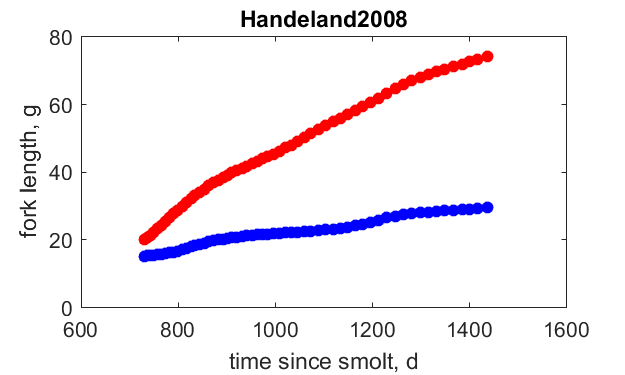
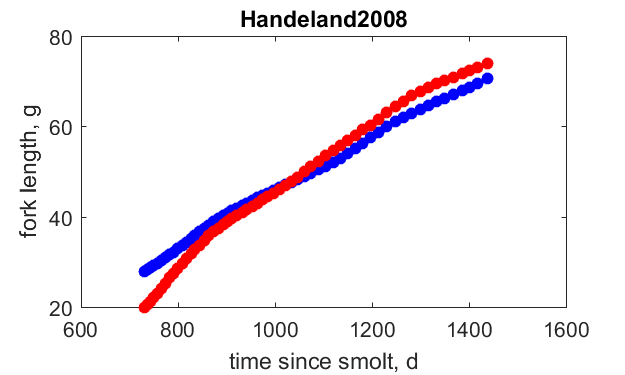
updated temperature scenario

diff --git a/Temperature/report_Salmo_salar.html b/Temperature/report_Salmo_salar.html
@@ -1,0 +1,207 @@
+<!DOCTYPE html>
+<HTML>
+<HEAD>
+  <TITLE>Salmo_salar</TITLE>
+</HEAD>
+
+<BODY>
+
+  <h1 > 
+    <A HREF = "https://en.wikipedia.org/wiki/Oncorhynchus_mykiss" target = "_blank">Salmo salar</A> (Atlantic salmon): &nbsp;
+  </h1>
+
+      <H1 >Implied properties for this entry </H1>
+      <H2>Model: <a class="link" target = "_blank" href="http://www.debtheory.org/wiki/index.php?title=Typified_models" >&nbsp;abj &nbsp;</a></H2>
+
+      <TABLE>
+        <TR BGCOLOR = "#FFE7C6"><TH colspan="4">Implied properties at 10 deg. C</TH></TR>
+        <TR BGCOLOR = "#FFE7C6"><TH>symbol</TH><TH> value</TH><TH> units</TH><TH> description</TH></TR>
+        <TR BGCOLOR = "#ffffff"> <TD>f</TD> <TD>1</TD> <TD>-</TD><TD>scaled functional response</TD></TR>
+        <TR BGCOLOR = "#ffffff"> <TD>T</TD> <TD>10</TD> <TD>C</TD><TD>body temperature</TD></TR>
+        <TR BGCOLOR = "#ffffff"> <TD>c_T</TD> <TD>0.381444</TD> <TD>-</TD><TD>Temperature Correction factor</TD></TR>
+        <TR BGCOLOR = "#ffffff"> <TD>p_Am</TD> <TD>112.433</TD> <TD>J/d.cm^2</TD><TD>{p_Am}, spec assimilation flux</TD></TR>
+        <TR BGCOLOR = "#ffffff"> <TD>w_X</TD> <TD>23.9</TD> <TD>g/mol</TD><TD>molecular weight for water-free food</TD></TR>
+        <TR BGCOLOR = "#ffffff"> <TD>w_V</TD> <TD>23.9</TD> <TD>g/mol</TD><TD>molecular weight for water-free structure</TD></TR>
+        <TR BGCOLOR = "#ffffff"> <TD>w_E</TD> <TD>23.9</TD> <TD>g/mol</TD><TD>molecular weight for water-free reserve</TD></TR>
+        <TR BGCOLOR = "#ffffff"> <TD>w_P</TD> <TD>23.9</TD> <TD>g/mol</TD><TD>molecular weight for water-free product (feaces)</TD></TR>
+        <TR BGCOLOR = "#ffffff"> <TD>M_V</TD> <TD>0.0083682</TD> <TD>mol/cm^3</TD><TD>[M_V], volume-specific mass of structure</TD></TR>
+        <TR BGCOLOR = "#ffffff"> <TD>y_V_E</TD> <TD>0.915922</TD> <TD>mol/mol</TD><TD>yield of structure on reserve</TD></TR>
+        <TR BGCOLOR = "#ffffff"> <TD>y_E_V</TD> <TD>1.0918</TD> <TD>mol/mol</TD><TD>yield of reserve on structure</TD></TR>
+        <TR BGCOLOR = "#ffffff"> <TD>k_M</TD> <TD>0.00156198</TD> <TD>1/d</TD><TD>somatic maintenance rate coefficient</TD></TR>
+        <TR BGCOLOR = "#ffffff"> <TD>k</TD> <TD>1.28042</TD> <TD>-</TD><TD>maintenance ratio</TD></TR>
+        <TR BGCOLOR = "#ffffff"> <TD>E_m</TD> <TD>1097.2</TD> <TD>J/cm^3</TD><TD>[E_m], reserve capacity</TD></TR>
+        <TR BGCOLOR = "#ffffff"> <TD>m_Em</TD> <TD>0.238392</TD> <TD>mol/mol</TD><TD>reserve capacity</TD></TR>
+        <TR BGCOLOR = "#ffffff"> <TD>g</TD> <TD>5.26713</TD> <TD>-</TD><TD>energy investment ratio</TD></TR>
+        <TR BGCOLOR = "#ffffff"> <TD>L_m</TD> <TD>12.4554</TD> <TD>cm</TD><TD>maximum structural length</TD></TR>
+        <TR BGCOLOR = "#ffffff"> <TD>L_T</TD> <TD>0</TD> <TD>cm</TD><TD>heating length (also applies to osmotic work)</TD></TR>
+        <TR BGCOLOR = "#ffffff"> <TD>l_T</TD> <TD>0</TD> <TD>-</TD><TD>scaled heating length</TD></TR>
+        <TR BGCOLOR = "#ffffff"> <TD>w</TD> <TD>0.238392</TD> <TD>-</TD><TD>\omega, contribution of ash free dry mass of reserve to total ash free dry biomass</TD></TR>
+        <TR BGCOLOR = "#ffffff"> <TD>J_E_Am</TD> <TD>0.000204424</TD> <TD>mol/d.cm^2</TD><TD>{J_EAm}, max surface-spec assimilation flux</TD></TR>
+        <TR BGCOLOR = "#ffffff"> <TD>y_E_X</TD> <TD>0.763636</TD> <TD>mol/mol</TD><TD>yield of reserve on food</TD></TR>
+        <TR BGCOLOR = "#ffffff"> <TD>y_X_E</TD> <TD>1.30952</TD> <TD>mol/mol</TD><TD>yield of food on reserve</TD></TR>
+        <TR BGCOLOR = "#ffffff"> <TD>p_Xm</TD> <TD>140.541</TD> <TD>J/d.cm^2</TD><TD>{p_Xm}, max spec feeding power</TD></TR>
+        <TR BGCOLOR = "#ffffff"> <TD>J_X_Am</TD> <TD>0.000267698</TD> <TD>mol/d.cm^2</TD><TD>{J_XAm}, max surface-spec feeding flux</TD></TR>
+        <TR BGCOLOR = "#ffffff"> <TD>y_P_X</TD> <TD>0.109375</TD> <TD>mol/mol</TD><TD>yield of faeces on food</TD></TR>
+        <TR BGCOLOR = "#ffffff"> <TD>y_X_P</TD> <TD>9.14286</TD> <TD>mol/mol</TD><TD>yield of food on faeces</TD></TR>
+        <TR BGCOLOR = "#ffffff"> <TD>y_P_E</TD> <TD>0.143229</TD> <TD>mol/mol</TD><TD>yield of faeces on reserve</TD></TR>
+        <TR BGCOLOR = "#ffffff"> <TD>eta_XA</TD> <TD>2.38095e-06</TD> <TD>mol/J</TD><TD>mass-power couplers for food on assimilation</TD></TR>
+        <TR BGCOLOR = "#ffffff"> <TD>eta_PA</TD> <TD>2.60417e-07</TD> <TD>mol/J</TD><TD>mass-power couplers for product on assimlation</TD></TR>
+        <TR BGCOLOR = "#ffffff"> <TD>eta_VG</TD> <TD>1.66531e-06</TD> <TD>mol/J</TD><TD>mass-power couplers for structure on growth</TD></TR>
+        <TR BGCOLOR = "#ffffff"> <TD>J_E_M</TD> <TD>1.42708e-05</TD> <TD>mol/d.cm^3</TD><TD>[J_EM], vol-spec somatic  maint costs</TD></TR>
+        <TR BGCOLOR = "#ffffff"> <TD>J_E_T</TD> <TD>0</TD> <TD>mol/d.cm^2</TD><TD>{J_ET}, surface-spec somatic  maint costs</TD></TR>
+        <TR BGCOLOR = "#ffffff"> <TD>j_E_M</TD> <TD>0.00170536</TD> <TD>mol/d.mol</TD><TD>mass-spec somatic  maint costs</TD></TR>
+        <TR BGCOLOR = "#ffffff"> <TD>j_E_J</TD> <TD>0.00218359</TD> <TD>mol/d.mol</TD><TD>mass-spec maturity maint costs</TD></TR>
+        <TR BGCOLOR = "#ffffff"> <TD>kap_G</TD> <TD>0.832657</TD> <TD>-</TD><TD>\kappa_G, growth efficiency</TD></TR>
+        <TR BGCOLOR = "#ffffff"> <TD>E_V</TD> <TD>4184.1</TD> <TD>J/cm^3</TD><TD>[E_V], volume-specific energy of structure</TD></TR>
+        <TR BGCOLOR = "#ffffff"> <TD>K</TD> <TD>4.11842e-05</TD> <TD>mol X/l</TD><TD>half-saturation coefficient</TD></TR>
+        <TR BGCOLOR = "#ffffff"> <TD>M_Hh</TD> <TD>0.000110734</TD> <TD>mol</TD><TD>maturity level at hatch</TD></TR>
+        <TR BGCOLOR = "#ffffff"> <TD>U_Hh</TD> <TD>0.541687</TD> <TD>cm^2.d</TD><TD>scaled maturity level at hatch</TD></TR>
+        <TR BGCOLOR = "#ffffff"> <TD>V_Hh</TD> <TD>4.15124</TD> <TD>cm^2.d</TD><TD>scaled maturity level at hatch</TD></TR>
+        <TR BGCOLOR = "#ffffff"> <TD>u_Hh</TD> <TD>5.45393e-06</TD> <TD>-</TD><TD>scaled maturity level at hatch</TD></TR>
+        <TR BGCOLOR = "#ffffff"> <TD>v_Hh</TD> <TD>4.17965e-05</TD> <TD>-</TD><TD>scaled maturity level at hatch</TD></TR>
+        <TR BGCOLOR = "#ffffff"> <TD>M_Hb</TD> <TD>0.000110742</TD> <TD>mol</TD><TD>maturity level at birth</TD></TR>
+        <TR BGCOLOR = "#ffffff"> <TD>U_Hb</TD> <TD>0.541726</TD> <TD>cm^2.d</TD><TD>scaled maturity level at birth</TD></TR>
+        <TR BGCOLOR = "#ffffff"> <TD>V_Hb</TD> <TD>4.15155</TD> <TD>cm^2.d</TD><TD>scaled maturity level at birth</TD></TR>
+        <TR BGCOLOR = "#ffffff"> <TD>u_Hb</TD> <TD>5.45433e-06</TD> <TD>-</TD><TD>scaled maturity level at birth</TD></TR>
+        <TR BGCOLOR = "#ffffff"> <TD>v_Hb</TD> <TD>4.17995e-05</TD> <TD>-</TD><TD>scaled maturity level at birth</TD></TR>
+        <TR BGCOLOR = "#ffffff"> <TD>M_Hj</TD> <TD>0.00232906</TD> <TD>mol</TD><TD>maturity level at metamorphosis</TD></TR>
+        <TR BGCOLOR = "#ffffff"> <TD>U_Hj</TD> <TD>11.3933</TD> <TD>cm^2.d</TD><TD>scaled maturity level at metamorphosis</TD></TR>
+        <TR BGCOLOR = "#ffffff"> <TD>V_Hj</TD> <TD>87.3132</TD> <TD>cm^2.d</TD><TD>scaled maturity level at metamorphosis</TD></TR>
+        <TR BGCOLOR = "#ffffff"> <TD>u_Hj</TD> <TD>0.000114713</TD> <TD>-</TD><TD>scaled maturity level at metamorphosis</TD></TR>
+        <TR BGCOLOR = "#ffffff"> <TD>v_Hj</TD> <TD>0.000879106</TD> <TD>-</TD><TD>scaled maturity level at metamorphosis</TD></TR>
+        <TR BGCOLOR = "#ffffff"> <TD>M_Hp</TD> <TD>0.139167</TD> <TD>mol</TD><TD>maturity level at puberty</TD></TR>
+        <TR BGCOLOR = "#ffffff"> <TD>U_Hp</TD> <TD>680.777</TD> <TD>cm^2.d</TD><TD>scaled maturity level at puberty</TD></TR>
+        <TR BGCOLOR = "#ffffff"> <TD>V_Hp</TD> <TD>5217.17</TD> <TD>cm^2.d</TD><TD>scaled maturity level at puberty</TD></TR>
+        <TR BGCOLOR = "#ffffff"> <TD>u_Hp</TD> <TD>0.00685434</TD> <TD>-</TD><TD>scaled maturity level at puberty</TD></TR>
+        <TR BGCOLOR = "#ffffff"> <TD>v_Hp</TD> <TD>0.0525286</TD> <TD>-</TD><TD>scaled maturity level at puberty</TD></TR>
+        <TR BGCOLOR = "#ffffff"> <TD>t_E</TD> <TD>318.654</TD> <TD>d</TD><TD>maximum reserve residence time</TD></TR>
+        <TR BGCOLOR = "#ffffff"> <TD>t_starve</TD> <TD>366.475</TD> <TD>d</TD><TD>maximum survival time when starved</TD></TR>
+        <TR BGCOLOR = "#ffffff"> <TD>s_M</TD> <TD>2.76732</TD> <TD>-</TD><TD>acceleration factor at f=1</TD></TR>
+        <TR BGCOLOR = "#ffffff"> <TD>r_j</TD> <TD>0.0139116</TD> <TD>1/d</TD><TD>exponential growth rate</TD></TR>
+        <TR BGCOLOR = "#ffffff"> <TD>r_B</TD> <TD>0.000166913</TD> <TD>1/d</TD><TD>von Bertalanffy growth rate</TD></TR>
+        <TR BGCOLOR = "#ffffff"> <TD>W_dWm</TD> <TD>15025.7</TD> <TD>g</TD><TD>wet weight at maximum growth</TD></TR>
+        <TR BGCOLOR = "#ffffff"> <TD>dWm</TD> <TD>1.11466</TD> <TD>g/d</TD><TD>maximum growth in wet weight</TD></TR>
+        <TR BGCOLOR = "#ffffff"> <TD>U_E0</TD> <TD>5.00677</TD> <TD>cm^2.d</TD><TD>scaled initial reserve</TD></TR>
+        <TR BGCOLOR = "#ffffff"> <TD>E_0</TD> <TD>562.926</TD> <TD>J</TD><TD>initial reserve</TD></TR>
+        <TR BGCOLOR = "#ffffff"> <TD>M_E0</TD> <TD>0.0010235</TD> <TD>mol</TD><TD>initial reserve</TD></TR>
+        <TR BGCOLOR = "#ffffff"> <TD>Wd_0</TD> <TD>0.0244617</TD> <TD>g</TD><TD>initial dry weight</TD></TR>
+        <TR BGCOLOR = "#ffffff"> <TD>Ww_0</TD> <TD>0.122308</TD> <TD>g</TD><TD>initial wet weight</TD></TR>
+        <TR BGCOLOR = "#ffffff"> <TD>l_h</TD> <TD>0.0347355</TD> <TD>-</TD><TD>scaled structural length at hatch</TD></TR>
+        <TR BGCOLOR = "#ffffff"> <TD>L_h</TD> <TD>0.432644</TD> <TD>cm</TD><TD>structural length at hatch</TD></TR>
+        <TR BGCOLOR = "#ffffff"> <TD>M_Vh</TD> <TD>0.00067768</TD> <TD>mol</TD><TD>structural mass at hatch</TD></TR>
+        <TR BGCOLOR = "#ffffff"> <TD>M_Eh</TD> <TD>0.000161662</TD> <TD>mol</TD><TD>reserve mass at hatch</TD></TR>
+        <TR BGCOLOR = "#ffffff"> <TD>del_Uh</TD> <TD>0.15795</TD> <TD>-</TD><TD>fraction of reserve left at hatch</TD></TR>
+        <TR BGCOLOR = "#ffffff"> <TD>Ww_h</TD> <TD>0.100301</TD> <TD>g</TD><TD>wet weight at hatch</TD></TR>
+        <TR BGCOLOR = "#ffffff"> <TD>Wd_h</TD> <TD>0.0200603</TD> <TD>g</TD><TD>dry weight at hatch</TD></TR>
+        <TR BGCOLOR = "#ffffff"> <TD>E_Wh</TD> <TD>427.755</TD> <TD>J</TD><TD>energy content at hatch</TD></TR>
+        <TR BGCOLOR = "#ffffff"> <TD>a_h</TD> <TD>50.2712</TD> <TD>d</TD><TD>age at hatch</TD></TR>
+        <TR BGCOLOR = "#ffffff"> <TD>l_b</TD> <TD>0.0347438</TD> <TD>-</TD><TD>scaled structural length at birth</TD></TR>
+        <TR BGCOLOR = "#ffffff"> <TD>L_b</TD> <TD>0.432747</TD> <TD>cm</TD><TD>structural length at birth</TD></TR>
+        <TR BGCOLOR = "#ffffff"> <TD>M_Vb</TD> <TD>0.000678164</TD> <TD>mol</TD><TD>structural mass at birth</TD></TR>
+        <TR BGCOLOR = "#ffffff"> <TD>del_Ub</TD> <TD>0.157957</TD> <TD>-</TD><TD>fraction of reserve left at birth</TD></TR>
+        <TR BGCOLOR = "#ffffff"> <TD>Ww_b</TD> <TD>0.10036</TD> <TD>g</TD><TD>wet weight at birth</TD></TR>
+        <TR BGCOLOR = "#ffffff"> <TD>Wd_b</TD> <TD>0.020072</TD> <TD>g</TD><TD>dry weight at birth</TD></TR>
+        <TR BGCOLOR = "#ffffff"> <TD>E_Wb</TD> <TD>428</TD> <TD>J</TD><TD>energy content at birth</TD></TR>
+        <TR BGCOLOR = "#ffffff"> <TD>a_b</TD> <TD>50.3513</TD> <TD>d</TD><TD>age at birth</TD></TR>
+        <TR BGCOLOR = "#ffffff"> <TD>g_Hb</TD> <TD>5.24946</TD> <TD>-</TD><TD>energy outvestment ratio at birth</TD></TR>
+        <TR BGCOLOR = "#ffffff"> <TD>l_j</TD> <TD>0.0961472</TD> <TD>-</TD><TD>scaled structural length at metamorphosis</TD></TR>
+        <TR BGCOLOR = "#ffffff"> <TD>L_j</TD> <TD>1.19755</TD> <TD>cm</TD><TD>structural length at metamorphosis</TD></TR>
+        <TR BGCOLOR = "#ffffff"> <TD>M_Vj</TD> <TD>0.0143719</TD> <TD>mol</TD><TD>structural mass at metamorphosis</TD></TR>
+        <TR BGCOLOR = "#ffffff"> <TD>M_Ej</TD> <TD>0.0143719</TD> <TD>mol</TD><TD>reserve mass at metamorphosis</TD></TR>
+        <TR BGCOLOR = "#ffffff"> <TD>Ww_j</TD> <TD>2.12686</TD> <TD>g</TD><TD>wet weight at metamorphosis</TD></TR>
+        <TR BGCOLOR = "#ffffff"> <TD>Wd_j</TD> <TD>0.425373</TD> <TD>g</TD><TD>dry weight at metamorphosis</TD></TR>
+        <TR BGCOLOR = "#ffffff"> <TD>E_Wj</TD> <TD>9070.32</TD> <TD>J</TD><TD>energy content at metamorphosis</TD></TR>
+        <TR BGCOLOR = "#ffffff"> <TD>a_j</TD> <TD>269.854</TD> <TD>d</TD><TD>age at metamorphosis</TD></TR>
+        <TR BGCOLOR = "#ffffff"> <TD>l_p</TD> <TD>0.378783</TD> <TD>-</TD><TD>scaled structural length at puberty</TD></TR>
+        <TR BGCOLOR = "#ffffff"> <TD>L_p</TD> <TD>4.71789</TD> <TD>cm</TD><TD>structural length at puberty</TD></TR>
+        <TR BGCOLOR = "#ffffff"> <TD>M_Vp</TD> <TD>0.878768</TD> <TD>mol</TD><TD>structural mass at puberty</TD></TR>
+        <TR BGCOLOR = "#ffffff"> <TD>M_Ep</TD> <TD>0.209491</TD> <TD>mol</TD><TD>reserve mass at puberty</TD></TR>
+        <TR BGCOLOR = "#ffffff"> <TD>Ww_p</TD> <TD>130.047</TD> <TD>g</TD><TD>wet weight at puberty</TD></TR>
+        <TR BGCOLOR = "#ffffff"> <TD>Wd_p</TD> <TD>26.0094</TD> <TD>g</TD><TD>dry weight at puberty</TD></TR>
+        <TR BGCOLOR = "#ffffff"> <TD>E_Wp</TD> <TD>554604</TD> <TD>J</TD><TD>energy content at puberty</TD></TR>
+        <TR BGCOLOR = "#ffffff"> <TD>a_p</TD> <TD>939.882</TD> <TD>d</TD><TD>age at puberty</TD></TR>
+        <TR BGCOLOR = "#ffffff"> <TD>g_Hp</TD> <TD>5.09096</TD> <TD>-</TD><TD>energy outvestment ratio at puberty</TD></TR>
+        <TR BGCOLOR = "#ffffff"> <TD>s_Hbp</TD> <TD>1.03113</TD> <TD>-</TD><TD>precociality coefficient</TD></TR>
+        <TR BGCOLOR = "#ffffff"> <TD>s_H</TD> <TD>3.09922</TD> <TD>-</TD><TD>log 10 altriciality index</TD></TR>
+        <TR BGCOLOR = "#ffffff"> <TD>s_s</TD> <TD>0.000313107</TD> <TD>-</TD><TD>supply stress</TD></TR>
+        <TR BGCOLOR = "#ffffff"> <TD>l_i</TD> <TD>2.76732</TD> <TD>-</TD><TD>ultimate scaled structural length</TD></TR>
+        <TR BGCOLOR = "#ffffff"> <TD>L_i</TD> <TD>34.4681</TD> <TD>cm</TD><TD>ultimate structural length</TD></TR>
+        <TR BGCOLOR = "#ffffff"> <TD>M_Vi</TD> <TD>342.676</TD> <TD>mol</TD><TD>ultimate structural mass</TD></TR>
+        <TR BGCOLOR = "#ffffff"> <TD>M_Ei</TD> <TD>81.6911</TD> <TD>mol</TD><TD>ultimate reserve mass</TD></TR>
+        <TR BGCOLOR = "#ffffff"> <TD>Ww_i</TD> <TD>50711.8</TD> <TD>g</TD><TD>ultimate wet weight</TD></TR>
+        <TR BGCOLOR = "#ffffff"> <TD>Wd_i</TD> <TD>10142.4</TD> <TD>g</TD><TD>ultimate dry weight</TD></TR>
+        <TR BGCOLOR = "#ffffff"> <TD>E_Wi</TD> <TD>2.16268e+08</TD> <TD>J</TD><TD>ultimate energy content</TD></TR>
+        <TR BGCOLOR = "#ffffff"> <TD>xi_WE</TD> <TD>21.3232</TD> <TD>kJ/ g</TD><TD>whole-body energy density of dry biomass (no reprod buffer)</TD></TR>
+        <TR BGCOLOR = "#ffffff"> <TD>del_Wb</TD> <TD>1.97902e-06</TD> <TD>-</TD><TD>birth weight as fraction of maximum weight</TD></TR>
+        <TR BGCOLOR = "#ffffff"> <TD>del_Wp</TD> <TD>0.00256443</TD> <TD>-</TD><TD>puberty weight as fraction of maximum weight</TD></TR>
+        <TR BGCOLOR = "#ffffff"> <TD>del_V</TD> <TD>0.807499</TD> <TD>-</TD><TD>fraction of max weight that is structure</TD></TR>
+        <TR BGCOLOR = "#ffffff"> <TD>h_W</TD> <TD>8.79511e-12</TD> <TD>1/d</TD><TD>Weibull ageing rate</TD></TR>
+        <TR BGCOLOR = "#ffffff"> <TD>h_G</TD> <TD>0.665058</TD> <TD>1/d</TD><TD>Gompertz aging rate</TD></TR>
+        <TR BGCOLOR = "#ffffff"> <TD>a_m</TD> <TD>2027.18</TD> <TD>d</TD><TD>life span</TD></TR>
+        <TR BGCOLOR = "#ffffff"> <TD>S_b</TD> <TD>1</TD> <TD>-</TD><TD>survival probability at birth</TD></TR>
+        <TR BGCOLOR = "#ffffff"> <TD>S_p</TD> <TD>1</TD> <TD>-</TD><TD>survival probability at puberty</TD></TR>
+        <TR BGCOLOR = "#ffffff"> <TD>a_99</TD> <TD>27648.2</TD> <TD>d</TD><TD>age at length 0.99 * L_i</TD></TR>
+        <TR BGCOLOR = "#ffffff"> <TD>R_i</TD> <TD>30.9514</TD> <TD>1/d</TD><TD>ultimate reproduction rate</TD></TR>
+        <TR BGCOLOR = "#ffffff"> <TD>N_i</TD> <TD>1365.3</TD> <TD>#</TD><TD>life time reproductive output</TD></TR>
+        <TR BGCOLOR = "#ffffff"> <TD>M_E0_min_G</TD> <TD>0.000888733</TD> <TD>mol</TD><TD>egg mass whereby growth ceases at birth</TD></TR>
+        <TR BGCOLOR = "#ffffff"> <TD>M_E0_min_R</TD> <TD>0.000887722</TD> <TD>mol</TD><TD>egg mass whereby maturation ceases at birth</TD></TR>
+        <TR BGCOLOR = "#ffffff"> <TD>eb_min_G</TD> <TD>0.0348094</TD> <TD>-</TD><TD>scaled reserve density whereby growth ceases at birth</TD></TR>
+        <TR BGCOLOR = "#ffffff"> <TD>eb_min_R</TD> <TD>0.0442888</TD> <TD>-</TD><TD>scaled reserve density whereby maturation ceases at birth</TD></TR>
+        <TR BGCOLOR = "#ffffff"> <TD>ep_min</TD> <TD>0.144432</TD> <TD>-</TD><TD>scaled reserve density whereby maturation and growth cease at puberty</TD></TR>
+        <TR BGCOLOR = "#ffffff"> <TD>sM_min</TD> <TD>2.81574</TD> <TD>-</TD><TD>acceleration factor whereby maturation ceases at puberty</TD></TR>
+        <TR BGCOLOR = "#ffffff"> <TD>p_Xb</TD> <TD>10.0393</TD> <TD>J/d</TD><TD>food intake at birth</TD></TR>
+        <TR BGCOLOR = "#ffffff"> <TD>J_Xb</TD> <TD>1.91224e-05</TD> <TD>mol/d</TD><TD>food intake at birth</TD></TR>
+        <TR BGCOLOR = "#ffffff"> <TD>F_mb</TD> <TD>1.21726</TD> <TD>l/d</TD><TD>max searching rate at birth</TD></TR>
+        <TR BGCOLOR = "#ffffff"> <TD>p_Xp</TD> <TD>1193.24</TD> <TD>J/d</TD><TD>food intake at puberty</TD></TR>
+        <TR BGCOLOR = "#ffffff"> <TD>J_Xp</TD> <TD>0.00227284</TD> <TD>mol/d</TD><TD>food intake at puberty</TD></TR>
+        <TR BGCOLOR = "#ffffff"> <TD>F_mp</TD> <TD>144.68</TD> <TD>l/d</TD><TD>max searching rate at puberty</TD></TR>
+        <TR BGCOLOR = "#ffffff"> <TD>p_Xi</TD> <TD>63689.6</TD> <TD>J/d</TD><TD>ultimate food intake</TD></TR>
+        <TR BGCOLOR = "#ffffff"> <TD>J_Xi</TD> <TD>0.121313</TD> <TD>mol/d</TD><TD>ultimate food intake</TD></TR>
+        <TR BGCOLOR = "#ffffff"> <TD>F_mi</TD> <TD>7722.32</TD> <TD>l/d</TD><TD>max ultimate searching rate</TD></TR>
+        <TR BGCOLOR = "#ffffff"> <TD>p_Ab</TD> <TD>8.03148</TD> <TD>J/d</TD><TD>assimilation at birth</TD></TR>
+        <TR BGCOLOR = "#ffffff"> <TD>p_Sb</TD> <TD>0.242632</TD> <TD>J/d</TD><TD>somatic maintenance at birth</TD></TR>
+        <TR BGCOLOR = "#ffffff"> <TD>p_Jb</TD> <TD>0.0464652</TD> <TD>J/d</TD><TD>maturity maintenance at birth</TD></TR>
+        <TR BGCOLOR = "#ffffff"> <TD>p_Gb</TD> <TD>5.66525</TD> <TD>J/d</TD><TD>growth at birth</TD></TR>
+        <TR BGCOLOR = "#ffffff"> <TD>p_Rb</TD> <TD>0.840132</TD> <TD>J/d</TD><TD>maturation at birth</TD></TR>
+        <TR BGCOLOR = "#ffffff"> <TD>p_Ap</TD> <TD>2641.67</TD> <TD>J/d</TD><TD>assimilation at puberty</TD></TR>
+        <TR BGCOLOR = "#ffffff"> <TD>p_Sp</TD> <TD>314.401</TD> <TD>J/d</TD><TD>somatic maintenance at puberty</TD></TR>
+        <TR BGCOLOR = "#ffffff"> <TD>p_Jp</TD> <TD>58.3927</TD> <TD>J/d</TD><TD>maturity maintenance at puberty</TD></TR>
+        <TR BGCOLOR = "#ffffff"> <TD>p_Gp</TD> <TD>1666.22</TD> <TD>J/d</TD><TD>growth at puberty</TD></TR>
+        <TR BGCOLOR = "#ffffff"> <TD>p_Rp</TD> <TD>238.839</TD> <TD>J/d</TD><TD>reproduction at puberty</TD></TR>
+        <TR BGCOLOR = "#ffffff"> <TD>p_Ai</TD> <TD>141000</TD> <TD>J/d</TD><TD>ultimate assimilation</TD></TR>
+        <TR BGCOLOR = "#ffffff"> <TD>p_Si</TD> <TD>122601</TD> <TD>J/d</TD><TD>ultimate somatic maintenance</TD></TR>
+        <TR BGCOLOR = "#ffffff"> <TD>p_Ji</TD> <TD>58.3927</TD> <TD>J/d</TD><TD>ultimate maturity maintenance</TD></TR>
+        <TR BGCOLOR = "#ffffff"> <TD>p_Gi</TD> <TD>2.36374e-11</TD> <TD>J/d</TD><TD>ultimate growth</TD></TR>
+        <TR BGCOLOR = "#ffffff"> <TD>p_Ri</TD> <TD>18340.3</TD> <TD>J/d</TD><TD>ultimate reproduction</TD></TR>
+        <TR BGCOLOR = "#ffffff"> <TD>J_Cb</TD> <TD>5.34753e-06</TD> <TD>mol/d</TD><TD>CO2 flux at birth</TD></TR>
+        <TR BGCOLOR = "#ffffff"> <TD>J_Cp</TD> <TD>0.00216549</TD> <TD>mol/d</TD><TD>CO2 flux at puberty</TD></TR>
+        <TR BGCOLOR = "#ffffff"> <TD>J_Ci</TD> <TD>0.267316</TD> <TD>mol/d</TD><TD>ultimate CO2 flux</TD></TR>
+        <TR BGCOLOR = "#ffffff"> <TD>J_Ob</TD> <TD>5.81544e-06</TD> <TD>mol/d</TD><TD>O2 flux at birth</TD></TR>
+        <TR BGCOLOR = "#ffffff"> <TD>J_Op</TD> <TD>0.00235497</TD> <TD>mol/d</TD><TD>O2 flux at puberty</TD></TR>
+        <TR BGCOLOR = "#ffffff"> <TD>J_Oi</TD> <TD>0.290706</TD> <TD>mol/d</TD><TD>ultimate O2 flux</TD></TR>
+        <TR BGCOLOR = "#ffffff"> <TD>J_Nb</TD> <TD>8.02129e-07</TD> <TD>mol/d</TD><TD>N-waste flux at birth</TD></TR>
+        <TR BGCOLOR = "#ffffff"> <TD>J_Np</TD> <TD>0.000324824</TD> <TD>mol/d</TD><TD>N-waste flux at puberty</TD></TR>
+        <TR BGCOLOR = "#ffffff"> <TD>J_Ni</TD> <TD>0.0400974</TD> <TD>mol/d</TD><TD>ultimate N-waste flux</TD></TR>
+        <TR BGCOLOR = "#ffffff"> <TD>RQ_b</TD> <TD>0.91954</TD> <TD>mol C/mol O</TD><TD>resp quotient at birth</TD></TR>
+        <TR BGCOLOR = "#ffffff"> <TD>UQ_b</TD> <TD>0.137931</TD> <TD>mol N/mol O</TD><TD>urine quotient at birth</TD></TR>
+        <TR BGCOLOR = "#ffffff"> <TD>WQ_b</TD> <TD>0.62069</TD> <TD>mol H/mol O</TD><TD>water quotient at birth</TD></TR>
+        <TR BGCOLOR = "#ffffff"> <TD>SDA_b</TD> <TD>0.1381</TD> <TD>mol O/mol X</TD><TD>specific dynamic action at birth</TD></TR>
+        <TR BGCOLOR = "#ffffff"> <TD>VO_b</TD> <TD>-0.000109235</TD> <TD>L/g.h</TD><TD>dioxygen use per gram max dry weight, <J_OD> at birth</TD></TR>
+        <TR BGCOLOR = "#ffffff"> <TD>p_Tt_b</TD> <TD>3.0812</TD> <TD>J/d</TD><TD>dissipating heat at birth</TD></TR>
+        <TR BGCOLOR = "#ffffff"> <TD>RQ_p</TD> <TD>0.91954</TD> <TD>mol C/mol O</TD><TD>resp quotient at puberty</TD></TR>
+        <TR BGCOLOR = "#ffffff"> <TD>UQ_p</TD> <TD>0.137931</TD> <TD>mol N/mol O</TD><TD>urine quotient at puberty</TD></TR>
+        <TR BGCOLOR = "#ffffff"> <TD>WQ_p</TD> <TD>0.62069</TD> <TD>mol H/mol O</TD><TD>water quotient at puberty</TD></TR>
+        <TR BGCOLOR = "#ffffff"> <TD>SDA_p</TD> <TD>0.1381</TD> <TD>mol O/mol X</TD><TD>specific dynamic action at puberty</TD></TR>
+        <TR BGCOLOR = "#ffffff"> <TD>VO_p</TD> <TD>-4.56597e-05</TD> <TD>L/g.h</TD><TD>dioxygen use per gram max dry weight, <J_OD> at puberty</TD></TR>
+        <TR BGCOLOR = "#ffffff"> <TD>p_Tt_p</TD> <TD>1220.67</TD> <TD>J/d</TD><TD>dissipating heat at puberty</TD></TR>
+        <TR BGCOLOR = "#ffffff"> <TD>RQ_i</TD> <TD>0.91954</TD> <TD>mol C/mol O</TD><TD>ultimate resp quotient</TD></TR>
+        <TR BGCOLOR = "#ffffff"> <TD>UQ_i</TD> <TD>0.137931</TD> <TD>mol N/mol O</TD><TD>ultimate urine quotient</TD></TR>
+        <TR BGCOLOR = "#ffffff"> <TD>WQ_i</TD> <TD>0.62069</TD> <TD>mol H/mol O</TD><TD>ultimate water quotient</TD></TR>
+        <TR BGCOLOR = "#ffffff"> <TD>SDA_i</TD> <TD>0.1381</TD> <TD>mol O/mol X</TD><TD>ultimate specific dynamic action</TD></TR>
+        <TR BGCOLOR = "#ffffff"> <TD>VO_i</TD> <TD>-2.36574e-05</TD> <TD>L/g.h</TD><TD>ultimate dioxygen use per gram max dry weight, <J_OD></TD></TR>
+        <TR BGCOLOR = "#ffffff"> <TD>p_Tt_i</TD> <TD>141201</TD> <TD>J/d</TD><TD>ultimate dissipating heat</TD></TR>
+        <TR BGCOLOR = "#ffffff"> <TD>z</TD> <TD>12.4554</TD> <TD>-</TD><TD>zoom factor</TD></TR>
+      </TABLE>
+
+</BODY>
+</HTML>

diff --git a/Temperature/mydata_Salmo_salar_T.m b/Temperature/mydata_Salmo_salar_T.m
@@ -185,42 +185,43 @@ data.tLps(:,1)=data.tLps(:,1)+ 2*365;
  units.tLps   = {'d', 'g'};  label.tLps = {'time since smolt', 'fork length'};  
  
  temp.tLps    = [ .... %%C2K(12); % a changer mettre un vecteur
-0	2.802499995
-31	5.936249971
-61	12.19999993
-92	16.69500005
-123	14.01749992
-153	10.91125
-184	7.446249962
-214	5.201249957
-245	2.633750036
-276	1.403749987
-304	0.371250004
-335	0.736249998
-365	3.287499994
-396	6.994999886
-426	11.16750002
-457	14.86625004
-488	14.30625021
-518	11.46375
-549	7.165000081
-579	4.267500043
-610	1.789999984
-641	1.231249996
-670	0.938749995
-701	1.907500014
-731	3.582500011
-762	6.922500014
-792	11.75874996
-823	15.24875009
-854	13.61625004
-884	9.922499895
-915	8.456249952
-945	5.201250017
-976	2.321249992
-1007 1.751249999
-1035 1.138750002
-1066 1.836250007
+0	5.199999964
+31	6.630500007
+61	7.394000006
+92	8.560500002
+123	8.198000002
+153	6.080999994
+184	4.863499999
+214	3.954499984
+245	3.775999999
+276	3.497000015
+304	3.087999982
+335	3.195999962
+365	3.645500016
+396	4.979500008
+426	7.220499921
+457	8.046000028
+488	6.958999991
+518	5.011999989
+549	3.757499945
+579	3.323500001
+610	3.30150001
+641	3.371999985
+670	3.571500003
+701	3.510000038
+731	4.17049998
+762	5.940499997
+792	8.048000002
+823	9.003000069
+854	8.215000033
+884	6.3375
+915	4.757499993
+945	4.000000024
+976	3.966500032
+1007	3.660499978
+1035	3.536999977
+1066	3.235500002
+1096	3.06449998
  ];
 
 temp.tLps(:,1)=temp.tLps(:,1)+ 2*365;

diff --git a/Temperature/pars_init_Salmo_salar_T.m b/Temperature/pars_init_Salmo_salar_T.m
@@ -30,7 +30,7 @@ par.T_A   = 8000;   free.T_A   = 0;    units.T_A = 'K';        label.T_A = 'Arrh
 par.del_M = 0.16;   free.del_M = 1;    units.del_M = '-';      label.del_M = 'shape coefficient';
 
 %% environmental parameters (temperatures are in auxData)
-par.f = 1.0;        free.f     = 0;    units.f = '-';          label.f    = 'scaled functional response for 0-var data';
+par.f = 0.8;        free.f     = 0;    units.f = '-';          label.f    = 'scaled functional response for 0-var data';
 par.f_tL = 0.8;     free.f_tL  = 1;    units.f_tL = '-';       label.f_tL = 'scaled functional response for 1-var data';
 par.f_tWp = 0.7;    free.f_tWp  = 1;   units.f_tWp = '-';      label.f_tWp = 'scaled functional response for 1-var data';
 

diff --git a/Temperature/predict_Salmo_salar_T.m b/Temperature/predict_Salmo_salar_T.m
@@ -212,7 +212,7 @@ function [prdData, info] = predict_Salmo_salar(par, data, auxData)
    ELHR_0 = [f_tL * E0; L0; H0;0];
     
    temp.tLps(:,1)=temp.tLps(:,1)-aT_j;
-    [a ELHR] = ode45(@dget_ELHR, [0; tLps(:,1)-aT_j], ELHR_0, [], L_b, L_j, L_m, p_Am, v, g, k_J, kap, f, E_Hb, E_Hj, E_Hp, temp.tLps, T_A, T_ref);
+    [a ELHR] = ode45(@dget_ELHR, [0; tLps(:,1)-aT_j], ELHR_0, [], L_b, L_j, L_m, p_Am, v, g, k_J, kap, f_tL, E_Hb, E_Hj, E_Hp, temp.tLps, T_A, T_ref);
    
     
     ELHR(1,:) = []; E = ELHR(:,1); L = ELHR(:,2); ELps = L/ del_M;  %EWw_ShelClar1995_1 = L.^3 + E * w_E/ mu_E/ d_E;  % g, wet weight warning pas R (seulement juv)
